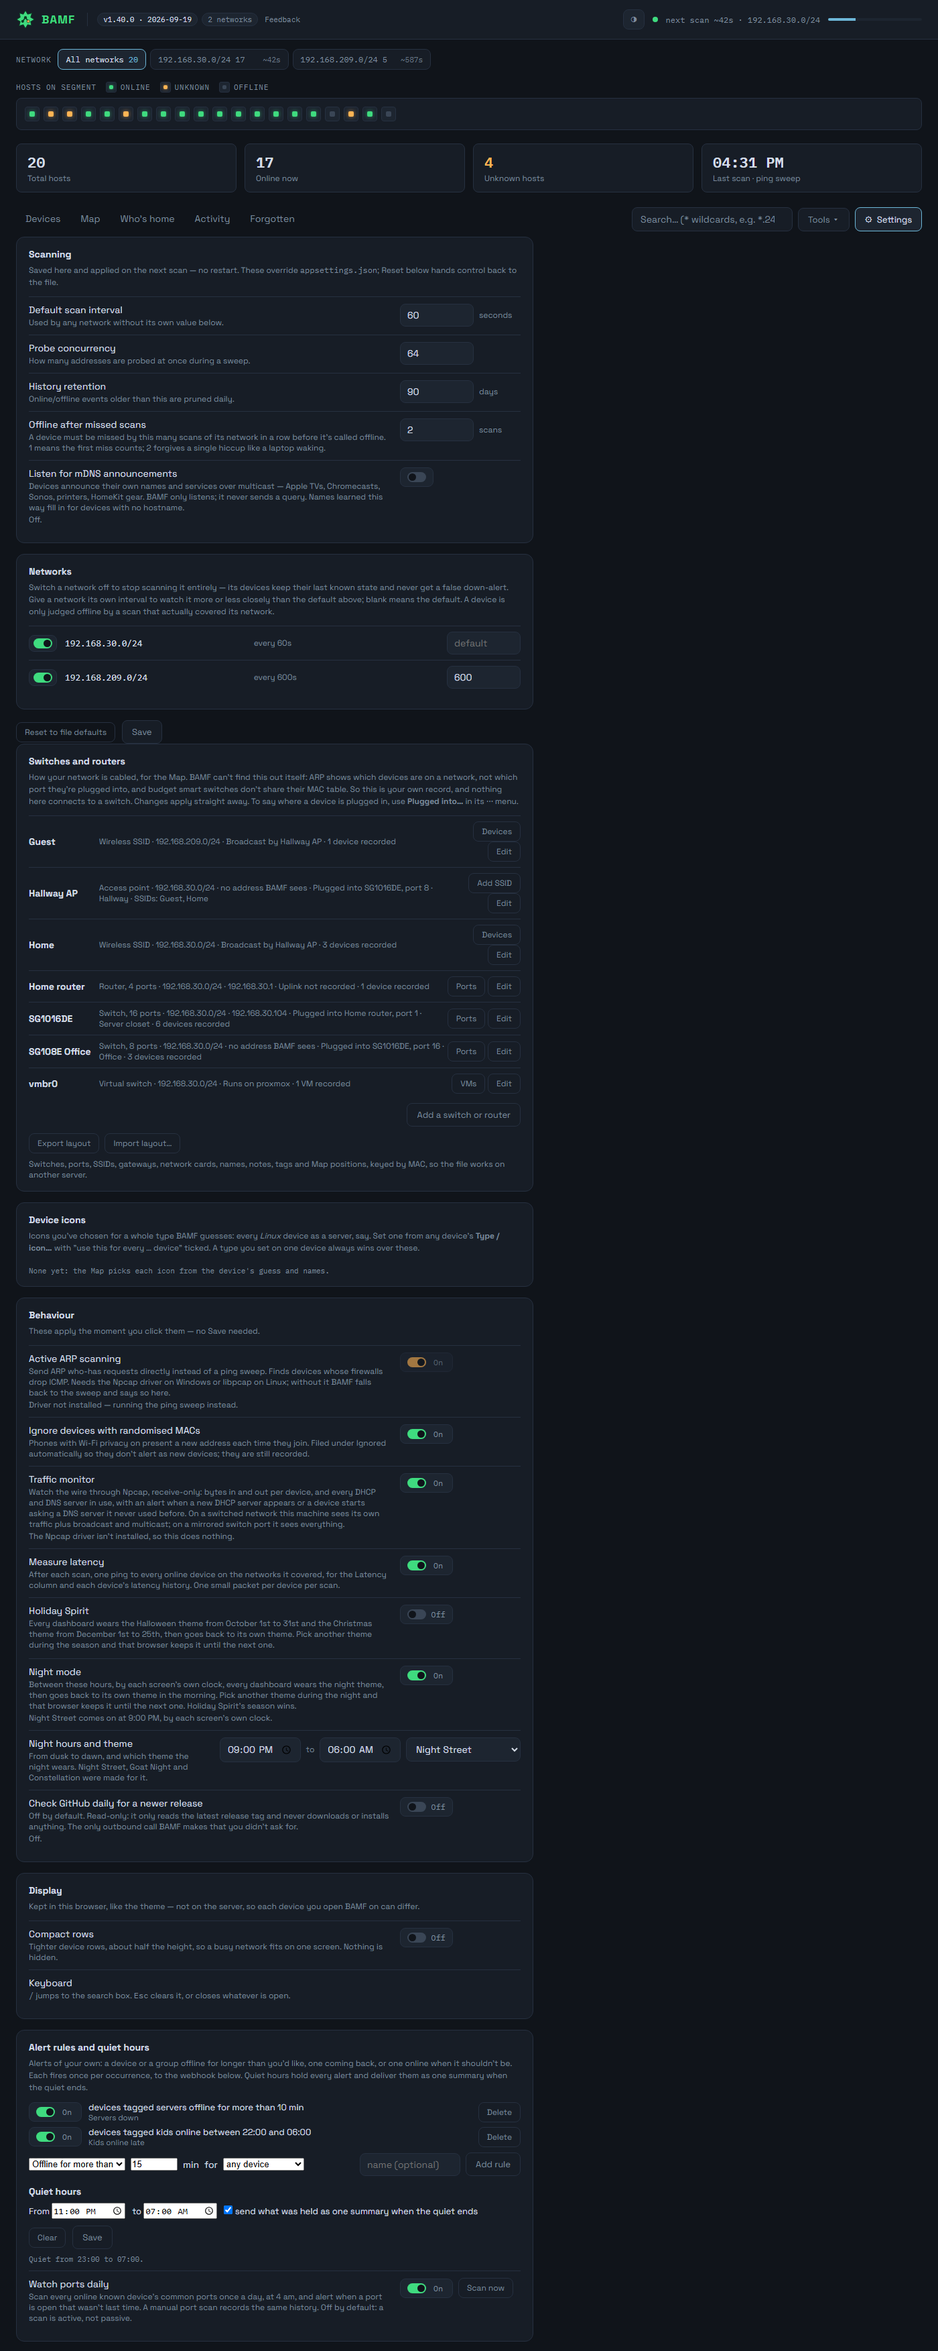
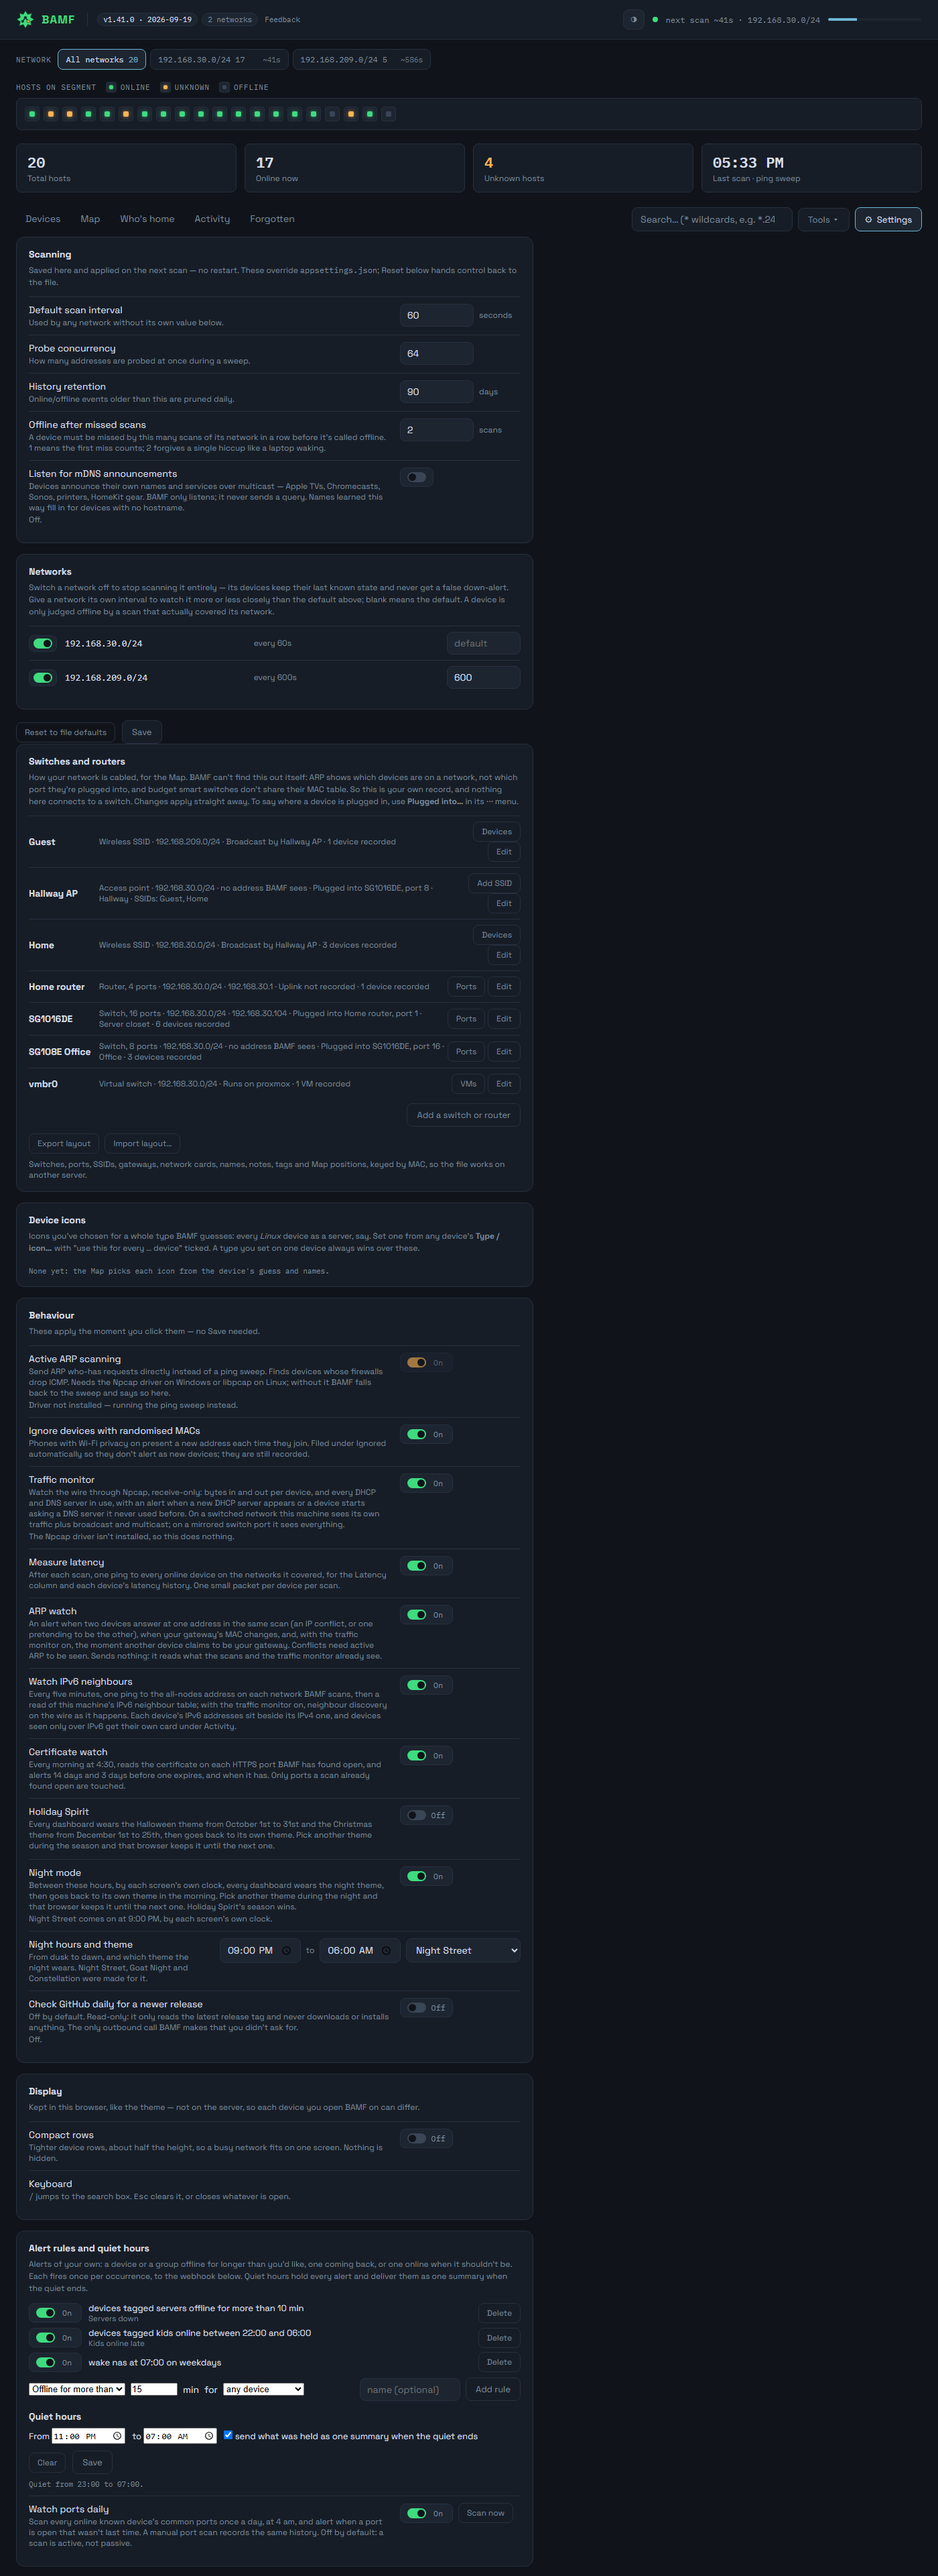
Recapture the README screenshots for 1.41.0 (#164)
The dashboard shows the v6 chip on devices with IPv6 addresses. Settings shows the ARP watch, IPv6 and certificate watch toggles and a scheduled wake rule. The Map is the same layout as before, on 1.41.0.

diff --git a/README.md b/README.md
@@ -13,7 +13,7 @@ serves a dashboard on port 8840.
 [![License: MIT](https://img.shields.io/badge/license-MIT-blue)](LICENSE)
 ![Platforms](https://img.shields.io/badge/platform-Windows%20%7C%20Linux-lightgrey)
 
-![The BAMF dashboard: every device on two networks, with vendor, device guess, 24-hour history and latency, tags under device names, and a New tab counting recent arrivals](docs/dashboard.png)
+![The BAMF dashboard: every device on two networks, with vendor, device guess, 24-hour history and latency, tags under device names, a v6 chip on devices with IPv6 addresses, and a New tab counting recent arrivals](docs/dashboard.png)
 
 <sub>Sample data — a demo database, not a real network.</sub>
 
@@ -120,7 +120,7 @@ screen. It works with any switch, including unmanaged ones.
 
 ### Tune it without touching the server
 
-![The Settings tab: scan interval, probe concurrency, history retention, an on/off switch and scan interval per network, the recorded switches, access point and SSIDs with layout export and import, the instant toggles for active ARP, randomised MACs, the traffic monitor, latency measuring, Holiday Spirit, Night mode with its hours and theme, and update checks, then alert rules, quiet hours and the daily port watch](docs/settings.png)
+![The Settings tab: scan interval, probe concurrency, history retention, an on/off switch and scan interval per network, the recorded switches, access point and SSIDs with layout export and import, the instant toggles for active ARP, randomised MACs, the traffic monitor, latency measuring, the ARP watch, IPv6 neighbours, the certificate watch, Holiday Spirit, Night mode with its hours and theme, and update checks, then alert rules including a scheduled wake, quiet hours and the daily port watch](docs/settings.png)
 
 Scan cadence, probe concurrency and history retention are editable from the
 dashboard and applied on the next scan — no restart, no editing a file over SSH.
